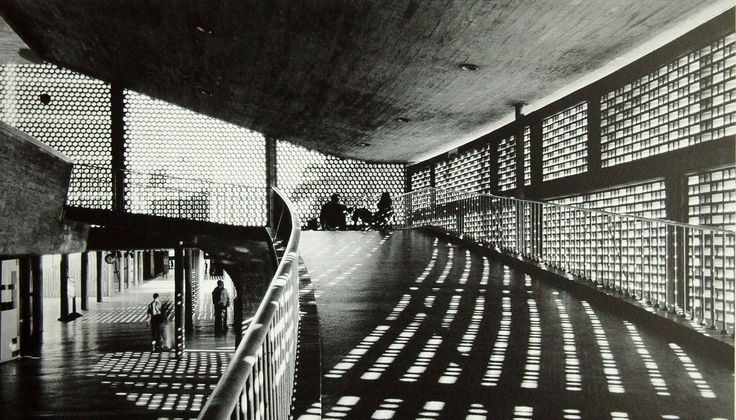
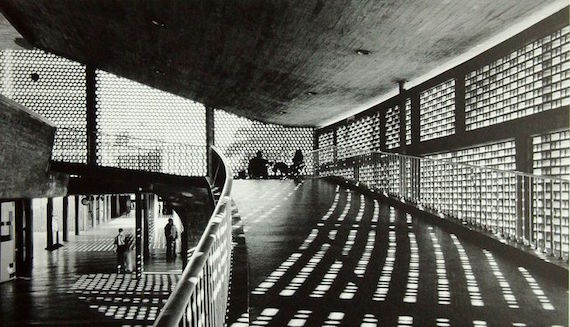
Se agrego el codigo para mostrar las imagenes en el tour, habia un error al hacer el resize de las imagenes, el jlabel crecia cada vez que se le daba continuar. Lo solucione cambiando el tamaño de las imagenes y poniendolas todas fijas

diff --git a/ProyectoIngenieria/src/Vista/IRecorrerTour.java b/ProyectoIngenieria/src/Vista/IRecorrerTour.java
@@ -5,9 +5,9 @@
  */
 package Vista;
 
+import java.awt.Image;
 import java.awt.event.ActionListener;
-import javax.swing.SwingConstants;
-
+import javax.swing.ImageIcon;
 /**
  *
  * @author alexis
@@ -60,10 +60,12 @@ public class IRecorrerTour extends javax.swing.JFrame {
         jTextField2.setText("Nombre Punto de Interes");
 
         jLabel3.setBackground(new java.awt.Color(255, 255, 255));
+        jLabel3.setHorizontalAlignment(javax.swing.SwingConstants.CENTER);
         jLabel3.setBorder(javax.swing.BorderFactory.createLineBorder(new java.awt.Color(0, 0, 0)));
 
         jLabel4.setText("Descripcion");
 
+        jTextArea1.setEditable(false);
         jTextArea1.setColumns(20);
         jTextArea1.setRows(5);
         jScrollPane1.setViewportView(jTextArea1);
@@ -83,8 +85,8 @@ public class IRecorrerTour extends javax.swing.JFrame {
             layout.createParallelGroup(javax.swing.GroupLayout.Alignment.LEADING)
             .addGroup(layout.createSequentialGroup()
                 .addGap(46, 46, 46)
-                .addGroup(layout.createParallelGroup(javax.swing.GroupLayout.Alignment.LEADING, false)
-                    .addComponent(jLabel3, javax.swing.GroupLayout.DEFAULT_SIZE, 504, Short.MAX_VALUE)
+                .addGroup(layout.createParallelGroup(javax.swing.GroupLayout.Alignment.LEADING)
+                    .addComponent(jLabel3, javax.swing.GroupLayout.DEFAULT_SIZE, 570, Short.MAX_VALUE)
                     .addGroup(layout.createSequentialGroup()
                         .addComponent(jLabel4)
                         .addPreferredGap(javax.swing.LayoutStyle.ComponentPlacement.RELATED, javax.swing.GroupLayout.DEFAULT_SIZE, Short.MAX_VALUE)
@@ -98,11 +100,11 @@ public class IRecorrerTour extends javax.swing.JFrame {
                             .addComponent(jLabel1)
                             .addComponent(jLabel2))
                         .addGap(23, 23, 23)
-                        .addGroup(layout.createParallelGroup(javax.swing.GroupLayout.Alignment.LEADING, false)
-                            .addComponent(jTextField1)
-                            .addComponent(jTextField2, javax.swing.GroupLayout.DEFAULT_SIZE, 335, Short.MAX_VALUE)))
+                        .addGroup(layout.createParallelGroup(javax.swing.GroupLayout.Alignment.LEADING)
+                            .addComponent(jTextField2)
+                            .addComponent(jTextField1)))
                     .addComponent(jScrollPane1))
-                .addContainerGap(51, Short.MAX_VALUE))
+                .addGap(51, 51, 51))
         );
         layout.setVerticalGroup(
             layout.createParallelGroup(javax.swing.GroupLayout.Alignment.LEADING)
@@ -123,7 +125,7 @@ public class IRecorrerTour extends javax.swing.JFrame {
                     .addComponent(Barra_progreso, javax.swing.GroupLayout.PREFERRED_SIZE, javax.swing.GroupLayout.DEFAULT_SIZE, javax.swing.GroupLayout.PREFERRED_SIZE))
                 .addGap(18, 18, 18)
                 .addComponent(jScrollPane1, javax.swing.GroupLayout.PREFERRED_SIZE, 150, javax.swing.GroupLayout.PREFERRED_SIZE)
-                .addPreferredGap(javax.swing.LayoutStyle.ComponentPlacement.RELATED, 70, Short.MAX_VALUE)
+                .addPreferredGap(javax.swing.LayoutStyle.ComponentPlacement.RELATED, 42, Short.MAX_VALUE)
                 .addGroup(layout.createParallelGroup(javax.swing.GroupLayout.Alignment.BASELINE)
                     .addComponent(boton_finalizar)
                     .addComponent(boton_continuar))
@@ -201,6 +203,16 @@ public void mostrarNombreTourActual (String IDCJ){
 
 public void mostrarCaracteristicas (String mostrarCJ) {
     jTextArea1.setText(mostrarCJ);
+}
+
+public void mostrarImagen(String rutaIMG) {
+    ImageIcon icon = new ImageIcon(getClass().getClassLoader().getResource(rutaIMG));
+    //Image image = icon.getImage().getScaledInstance(jLabel3.getWidth(), jLabel3.getHeight(), Image.SCALE_FAST);
+    jLabel3.setIcon(icon);
+}
+
+public void limpiar() {
+    
 }
 
     // Variables declaration - do not modify//GEN-BEGIN:variables

diff --git a/ProyectoIngenieria/src/Controlador/Ctrl_Patrimonio.java b/ProyectoIngenieria/src/Controlador/Ctrl_Patrimonio.java
@@ -20,7 +20,6 @@ import java.io.InputStream;
 import java.io.InputStreamReader;
 import java.io.UnsupportedEncodingException;
 import java.util.ArrayList;
-import java.util.Arrays;
 import java.util.logging.Level;
 import java.util.logging.Logger;
 import javax.swing.DefaultComboBoxModel;
@@ -231,8 +230,7 @@ public final class Ctrl_Patrimonio {
                 
             ocultarISeleccionarTour();
             mostrarIRecorrer();
-            
-                iterator.prox();
+            iterator.prox();
             }
         }    
     }
@@ -253,8 +251,8 @@ public final class Ctrl_Patrimonio {
                 ocultarIRecorrer();
                 mostrarIRol();
             }else{
-            mostrarIRecorrer();
-            iterator.prox();
+                mostrarIRecorrer();
+                iterator.prox();
             }
             
         }    
@@ -482,11 +480,13 @@ public final class Ctrl_Patrimonio {
         opciones.setVisible(true);
     }
     private void mostrarIRecorrer() {
-        recorrer_tour.setVisible(true);
         recorrer_tour.setBarraProgreso(iterator.getIndex(),iterator.getTamano());      //Para mostrar la cantidad de tours recorridos
         recorrer_tour.mostrarNombre(iterator.elemActual().getNombreObra());
         recorrer_tour.mostrarNombreTourActual(tourActual.getNombre());
         recorrer_tour.mostrarCaracteristicas (iterator.elemActual().getCaracteristicasObra());
+        recorrer_tour.mostrarImagen(iterator.elemActual().getImagenObra().getRutaIMG());
+        recorrer_tour.pack();
+        recorrer_tour.setVisible(true);
     }
     private void mostrarIRol() {
         rol.setVisible(true);

diff --git a/ProyectoIngenieria/src/Modelo/Obra.java b/ProyectoIngenieria/src/Modelo/Obra.java
@@ -20,7 +20,7 @@ public abstract class Obra {
         AnoCreacion = parts[4];
         Ubicacion = parts[5];
         Descripcion = parts[6];
-        
+        Image = new Imagen(Numero);
         if ("".equals(Descripcion)) {
         } else {
             Descripcion = "\nConsta de " + Descripcion;
@@ -28,7 +28,7 @@ public abstract class Obra {
     }
 
     Imagen getImagen() {
-        throw new UnsupportedOperationException("Not supported yet."); //To change body of generated methods, choose Tools | Templates.
+        return Image;
     }
 
     String ObtenerCaracteristicas() {
@@ -41,6 +41,10 @@ public abstract class Obra {
     
     public String getID () {
         return ID;
+    }
+    
+    public String getNumero() {
+        return Numero;
     }
     
     protected String Numero;

diff --git a/ProyectoIngenieria/src/Modelo/Imagen.java b/ProyectoIngenieria/src/Modelo/Imagen.java
@@ -11,9 +11,15 @@ package Modelo;
  */
 public class Imagen {
     private String RutaIMG;
+    
+    public Imagen(String ruta) {
+        RutaIMG = "data/" + ruta + ".jpg";
+    }
+    
     public String getRutaIMG() {
         return RutaIMG;
     }
+    
     public void setRutaIMG(String rutimg) {
         RutaIMG = rutimg;
     }
